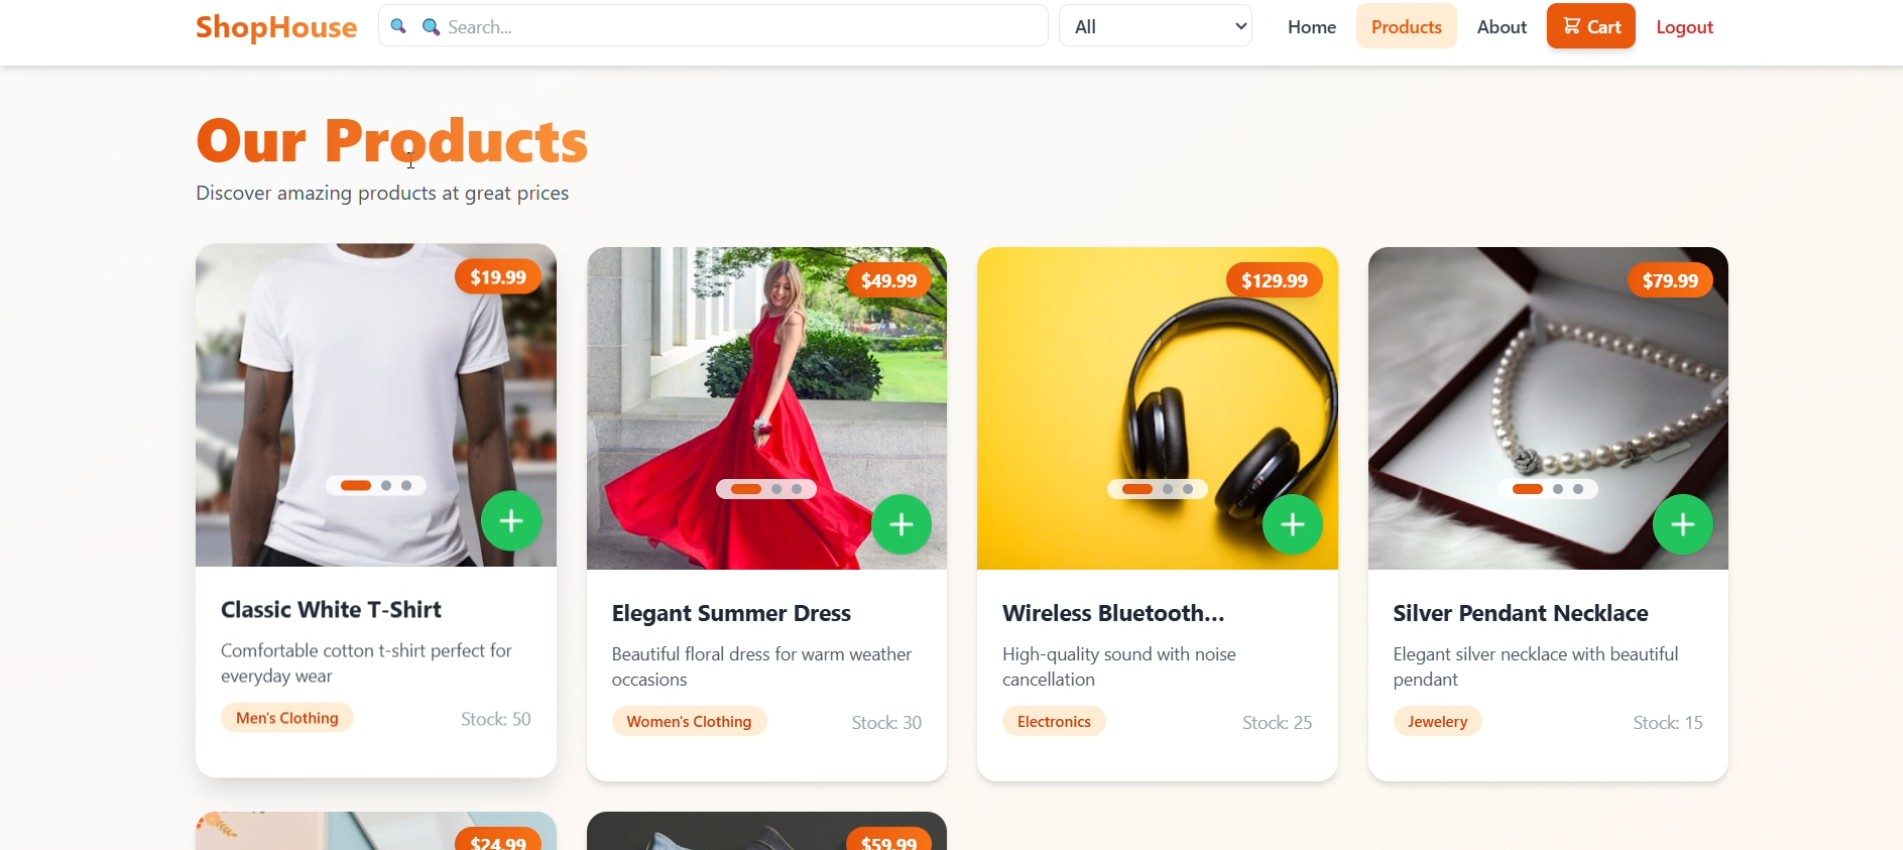
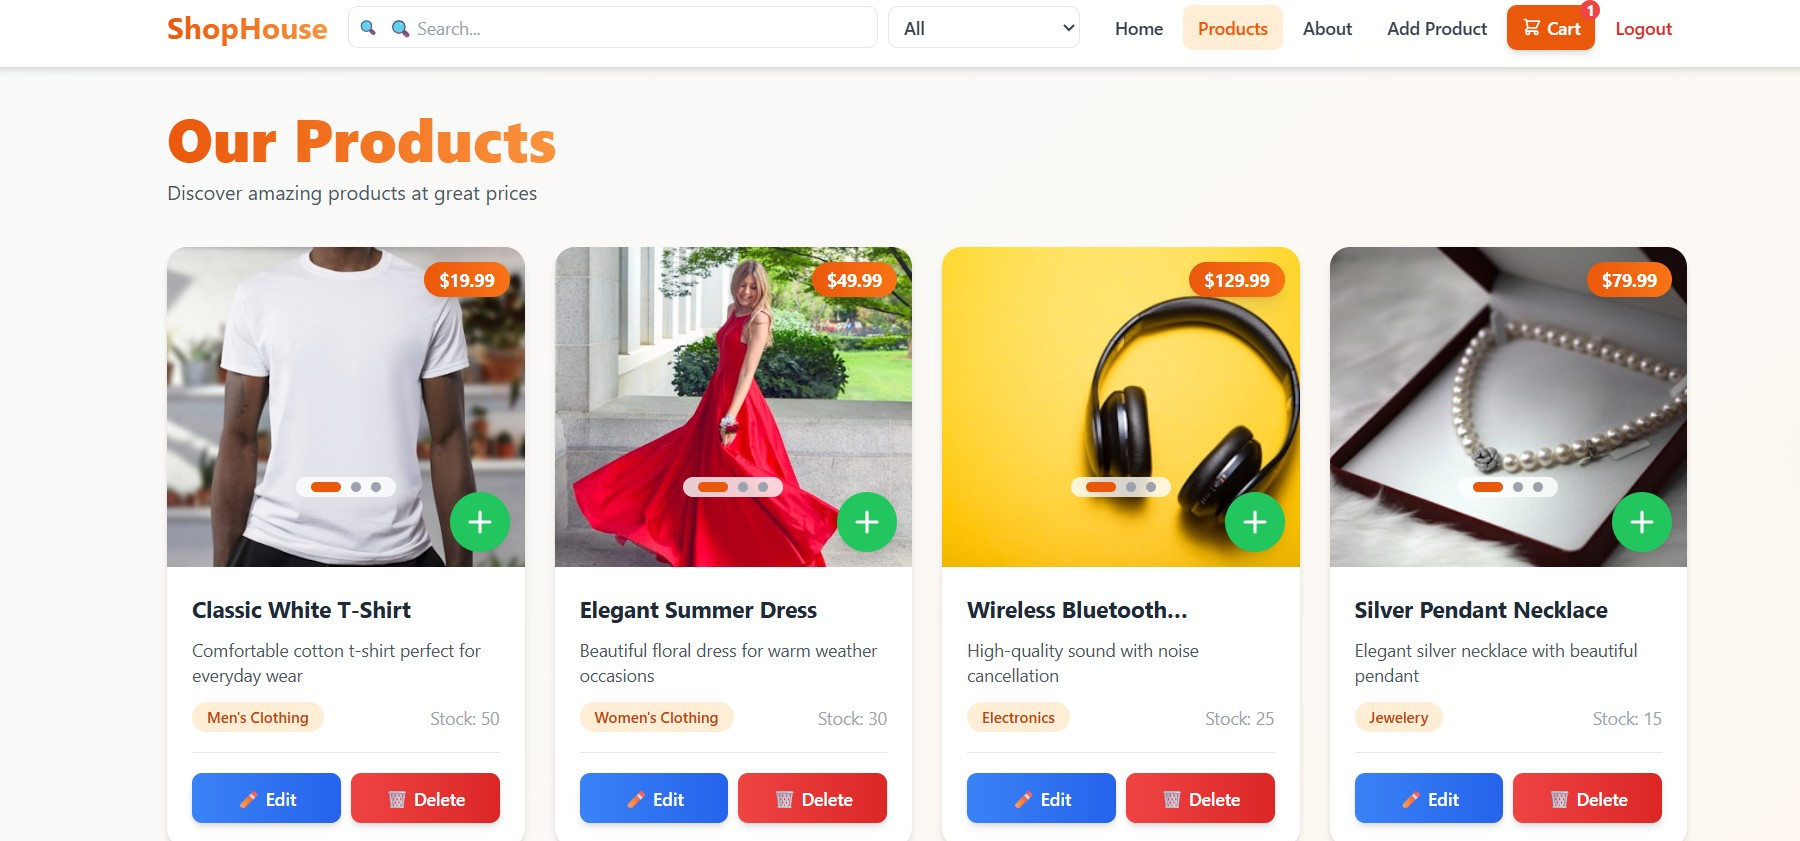
k

diff --git a/src/companent/project2.jsx b/src/companent/project2.jsx
@@ -48,7 +48,7 @@ function Projects() {
       technologies: ["React.js", "Tailwind.css"],
       Website: "https://e-commerce-git-main-kareems-projects-28d3146b.vercel.app?_vercel_share=3gyIbpz6Cc9axVFuv0xLRA9iOd4fNodw",
       GitHub: "https://github.com/karim-99-99/Ecommerce-fullStack.git",
-      poster: "/video1-poster.png", 
+      poster: "/video1-poster.jpg", 
     },
     {
       title: "Add Quotes",
